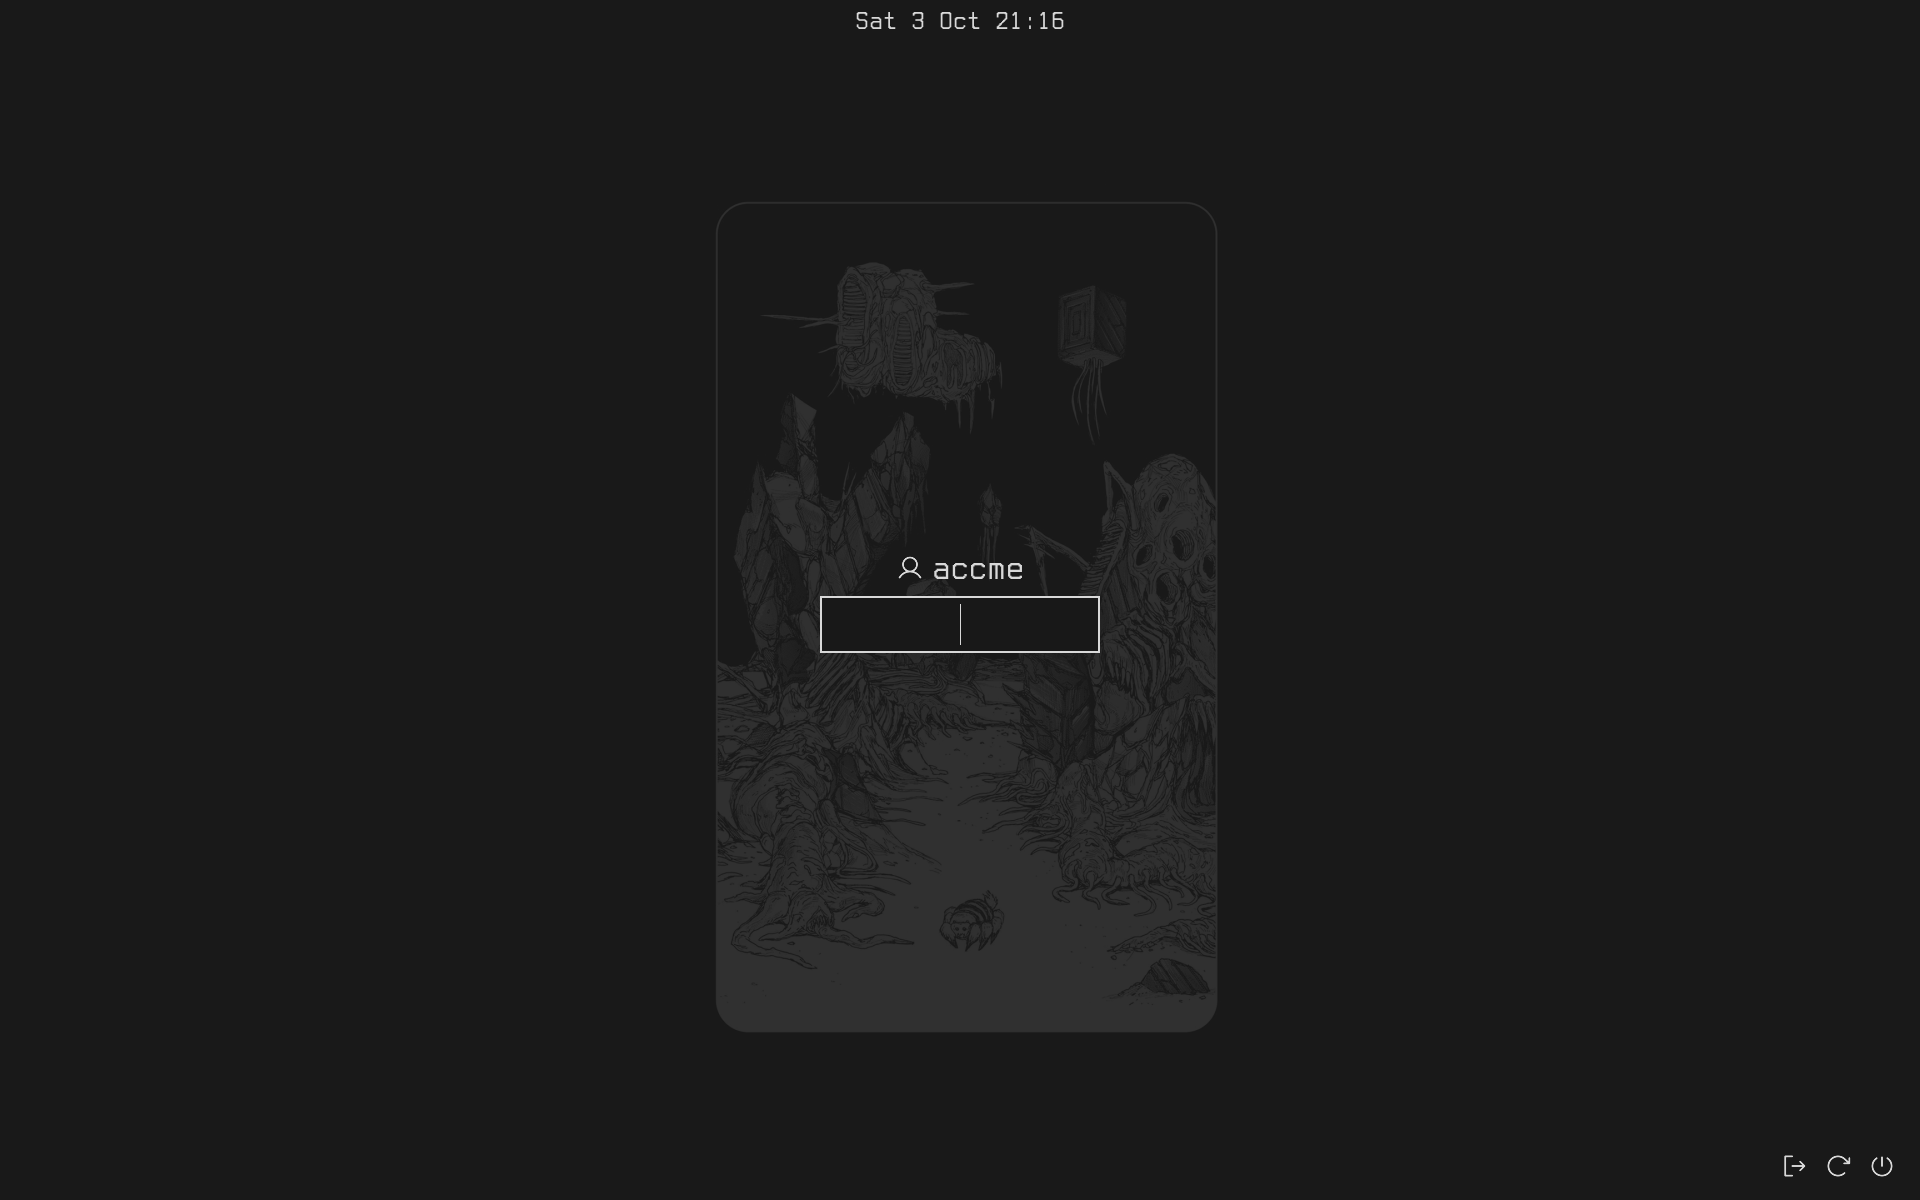
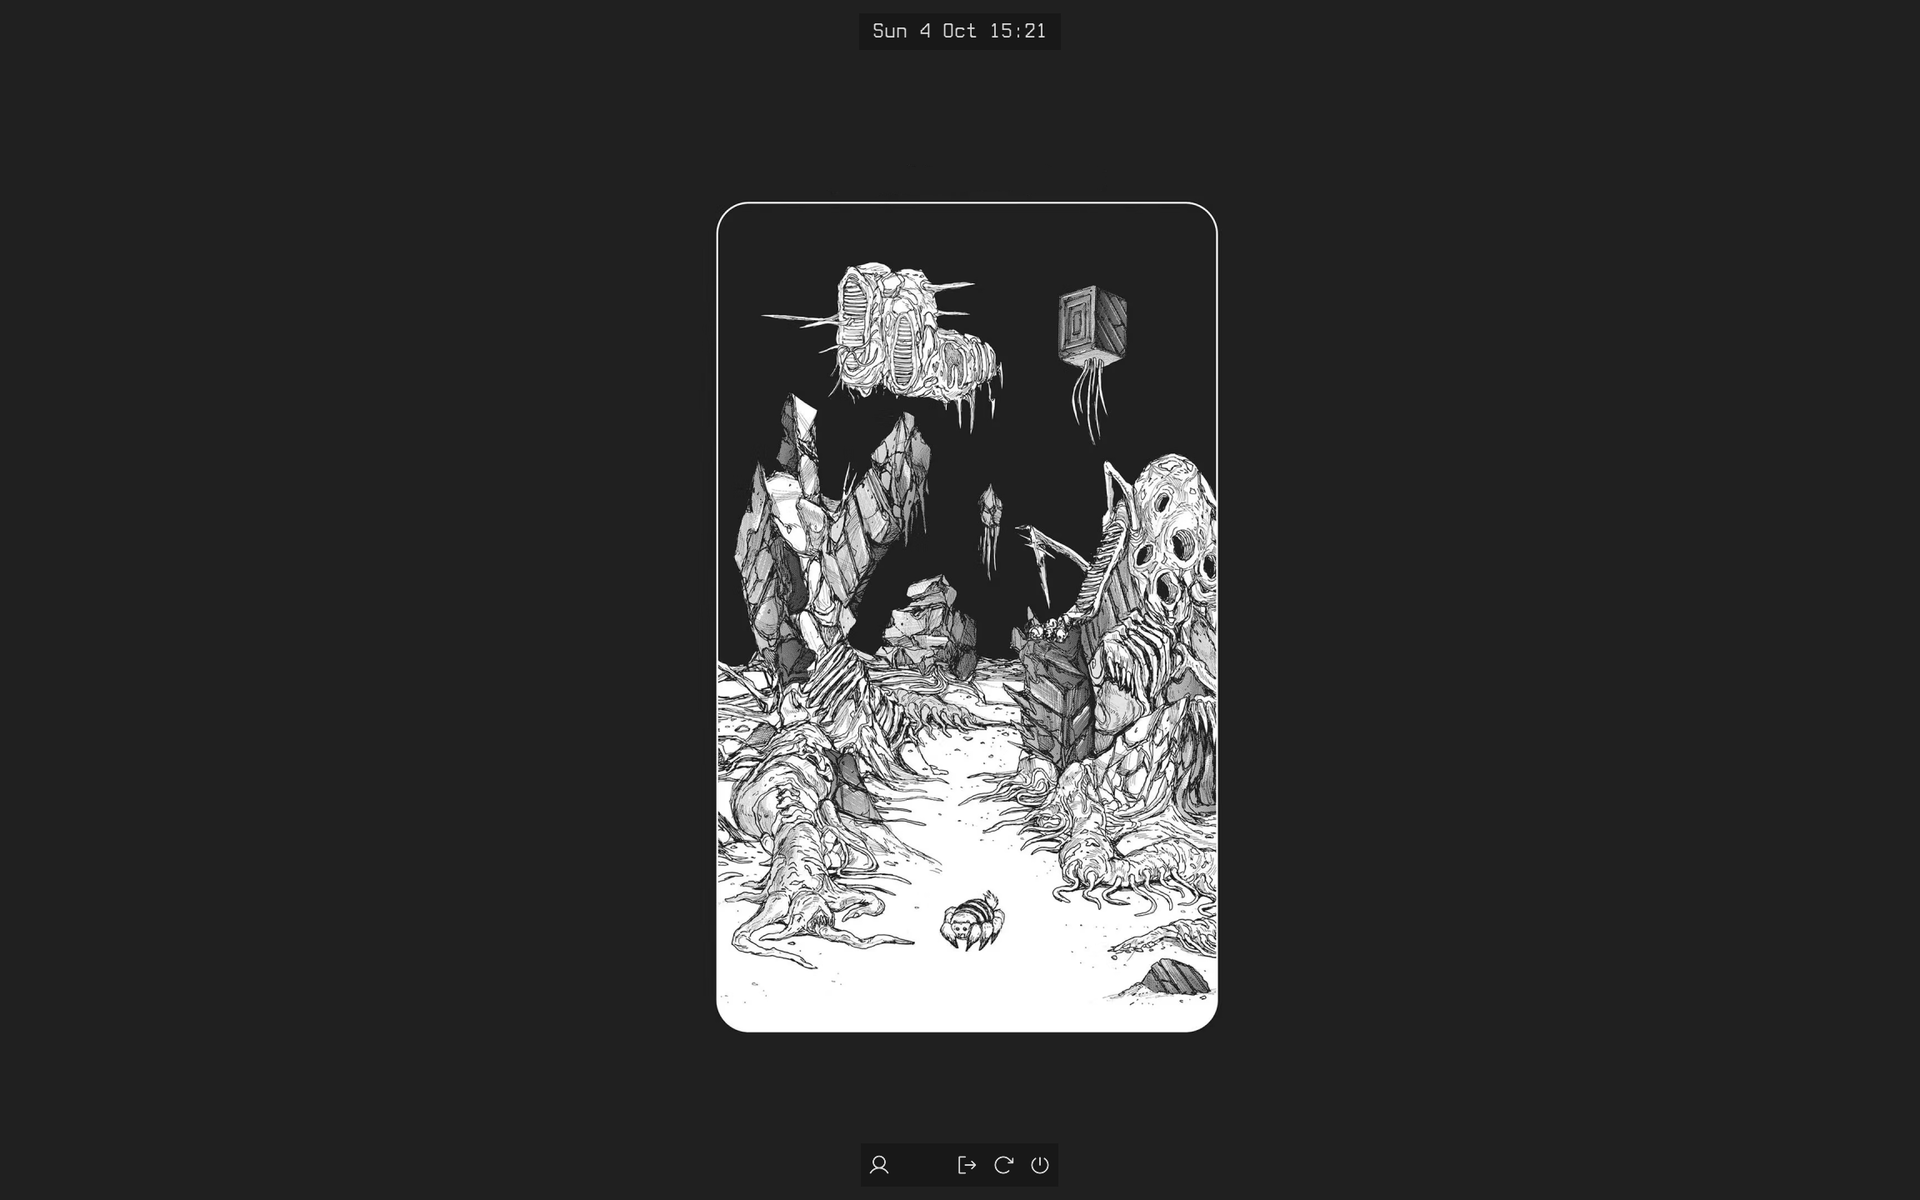
(feat): better lockscreen

Changed region(s): [[0.375, 0.2158, 0.6562, 0.8633], [0.4375, 0.0, 0.5625, 0.0308]]

diff --git a/Modules/Lock/Lock.qml b/Modules/Lock/Lock.qml
@@ -2,6 +2,7 @@ import Quickshell
 import Quickshell.Wayland
 import QtQuick
 import QtQuick.Layouts
+import QtQuick.Shapes
 
 import qs.Services
 import qs.Components
@@ -38,128 +39,190 @@ Scope {
       }
 
       Rectangle {
-        anchors.fill: parent
-
-        color: ThemeService.colors.background
-        opacity: 0.9
-      }
-
-      MesaText {
         anchors.top: parent.top
         anchors.horizontalCenter: parent.horizontalCenter
-        anchors.topMargin: ConfigService.spaceMd
+        anchors.topMargin: ConfigService.spaceLg
 
-        text: Qt.formatDateTime(clock.date, ConfigService.dateTimeFormat)
-        font.pointSize: ConfigService.font.size * 1.5
+        implicitWidth: date.implicitWidth + ConfigService.spaceLg * 2
+        implicitHeight: date.implicitHeight + ConfigService.spaceMd * 2
 
-        SystemClock {
-          id: clock
-          precision: SystemClock.Minutes
+        color: ThemeService.colors.background
+
+        MesaText {
+          id: date
+
+          anchors.centerIn: parent
+
+          text: Qt.formatDateTime(clock.date, ConfigService.dateTimeFormat)
+          font.pointSize: ConfigService.font.size * 1.5
+
+          SystemClock {
+            id: clock
+            precision: SystemClock.Minutes
+          }
         }
       }
 
+      Rectangle {
+        id: bar
 
-      RowLayout {
-        anchors.right: parent.right
+        readonly property real stroke: ConfigService.border * 3
+
         anchors.bottom: parent.bottom
-        anchors.margins: ConfigService.spaceLg
+        anchors.horizontalCenter: parent.horizontalCenter
+        anchors.bottomMargin: ConfigService.spaceLg
 
-        spacing: ConfigService.spaceLg
+        implicitWidth: row.implicitWidth + ConfigService.spaceMd
+        implicitHeight: row.implicitHeight + ConfigService.spaceMd * 2
 
-        RowLayout {
-          spacing: 0
+        color: ThemeService.colors.background
 
-          MesaButton {
-            Layout.fillWidth: true
+        focus: true
 
-            icon: "application-exit"
-            iconSize: ConfigService.iconSizeLarge
-            onClicked: PowerService.exitSession()
+        Keys.onPressed: event => {
+          if (LockService.authenticating) return;
+
+          if (event.key === Qt.Key_CapsLock) {
+            if (!event.isAutoRepeat) LockService.capsLock = !LockService.capsLock;
+          } else if (event.key === Qt.Key_Escape) {
+            if (LockService.password !== "") flash.trigger(ThemeService.colors.highlight, true);
+            LockService.input("");
+          } else if (event.key === Qt.Key_Tab || event.key === Qt.Key_Backtab) {
+          } else if (event.key === Qt.Key_Return || event.key === Qt.Key_Enter) {
+            LockService.submit();
+          } else if (event.key === Qt.Key_Backspace) {
+            if (LockService.password === "") return;
+
+            LockService.input(LockService.password.slice(0, -1));
+            flash.trigger(ThemeService.colors.attention, false);
+          } else {
+            const code = event.text.charCodeAt(0);
+            if (!(code >= 32 && code !== 127)) return;
+
+            if (event.text.toLowerCase() !== event.text.toUpperCase()) {
+              LockService.capsLock = (event.text === event.text.toUpperCase()) !== Boolean(event.modifiers & Qt.ShiftModifier);
+            }
+
+            LockService.input(LockService.password + event.text);
+            flash.trigger(ThemeService.colors.highlight, false);
           }
 
-          MesaButton {
-            Layout.fillWidth: true
-
-            icon: "system-reboot"
-            iconSize: ConfigService.iconSizeLarge
-            onClicked: PowerService.reboot()
-          }
-
-          MesaButton {
-            Layout.fillWidth: true
-
-            icon: "system-shutdown"
-            iconSize: ConfigService.iconSizeLarge
-            onClicked: PowerService.shutdown()
-          }
+          event.accepted = true;
         }
-      }
-
-      ColumnLayout {
-        anchors.centerIn: parent
-
-        spacing: ConfigService.spaceMd
 
         RowLayout {
-          Layout.alignment: Qt.AlignHCenter
+          id: row
+
+          anchors.fill: parent
+          anchors.leftMargin: ConfigService.spaceMd
 
           spacing: ConfigService.spaceMd
 
           MesaIcon {
             name: "im-user"
             size: ConfigService.iconSizeLarge
+            color: LockService.failed ? ThemeService.colors.critical : ThemeService.colors.foreground
           }
 
-          MesaText {
-            text: LockService.user
-            font.pointSize: ConfigService.font.size * 2
-          }
-        }
+          Item {
+            Layout.fillHeight: true
+            Layout.preferredWidth: Math.ceil(longest.width) + ConfigService.spaceMd * 2
 
-        MesaInput {
-          id: input
+            TextMetrics {
+              id: longest
 
-          Layout.preferredWidth: Math.round(ConfigService.font.size * 20)
+              font: status.font
+              text: "CAPS"
+            }
 
-          focus: true
-          horizontalAlignment: TextInput.AlignHCenter
-          echoMode: TextInput.Password
-          passwordCharacter: "*"
-          readOnly: LockService.authenticating
+            MesaText {
+              id: status
 
-          font.pointSize: ConfigService.font.size * 2
+              anchors.centerIn: parent
 
-          text: LockService.authenticating ? "" : LockService.password
+              visible: LockService.authenticating || LockService.capsLock
 
-          topPadding: ConfigService.spaceMd
-          bottomPadding: ConfigService.spaceMd
-
-          borderColor: {
-            if (LockService.failed) return ThemeService.colors.critical;
-            if (LockService.authenticating) return ThemeService.colors.attention;
-            return ThemeService.colors.highlight;
+              text: LockService.authenticating ? "..." : "CAPS"
+              color: ThemeService.colors.attention
+            }
           }
 
-          background: Rectangle {
-            color: ThemeService.colors.background
-            border.color: input.borderColor
-            border.width: ConfigService.border * 2
-          }
+          RowLayout {
+            spacing: 0
 
-          onTextEdited: LockService.input(text)
-          onAccepted: LockService.submit()
+            MesaButton {
+              icon: "application-exit"
+              iconSize: ConfigService.iconSizeLarge
+              onClicked: PowerService.exitSession()
+            }
 
-          Keys.onEscapePressed: LockService.input("")
+            MesaButton {
+              icon: "system-reboot"
+              iconSize: ConfigService.iconSizeLarge
+              onClicked: PowerService.reboot()
+            }
 
-          MesaText {
-            anchors.centerIn: parent
-
-            visible: LockService.authenticating
-
-            text: "Verifying..."
+            MesaButton {
+              icon: "system-shutdown"
+              iconSize: ConfigService.iconSizeLarge
+              onClicked: PowerService.shutdown()
+            }
           }
         }
-      }    
+
+        Shape {
+          id: flash
+
+          readonly property real perimeter: 2 * (width + height - bar.stroke * 2)
+          property real position: 0
+          property real segment: 0
+          property color color: ThemeService.colors.highlight
+
+          function trigger(color: color, full: bool): void {
+            flash.color = color;
+            flash.segment = full ? flash.perimeter : Math.max(flash.height, flash.perimeter / 8);
+            flash.position = full ? 0 : Math.random() * flash.perimeter;
+            fade.restart();
+          }
+
+          anchors.fill: parent
+
+          opacity: 0
+
+          NumberAnimation on opacity {
+            id: fade
+
+            running: false
+            from: 1
+            to: 0
+            duration: 400
+            easing.type: Easing.InQuad
+          }
+
+          ShapePath {
+            strokeColor: flash.color
+            strokeWidth: bar.stroke
+            fillColor: "transparent"
+            strokeStyle: ShapePath.DashLine
+            capStyle: ShapePath.SquareCap
+            joinStyle: ShapePath.MiterJoin
+            dashPattern: [flash.segment / bar.stroke, flash.perimeter * 2 / bar.stroke]
+            dashOffset: (flash.perimeter * 2 + flash.segment - flash.position) / bar.stroke
+
+            startX: bar.stroke / 2
+            startY: bar.stroke / 2
+
+            PathLine { x: flash.width - bar.stroke / 2; y: bar.stroke / 2 }
+            PathLine { x: flash.width - bar.stroke / 2; y: flash.height - bar.stroke / 2 }
+            PathLine { x: bar.stroke / 2; y: flash.height - bar.stroke / 2 }
+            PathLine { x: bar.stroke / 2; y: bar.stroke / 2 }
+            PathLine { x: flash.width - bar.stroke / 2; y: bar.stroke / 2 }
+            PathLine { x: flash.width - bar.stroke / 2; y: flash.height - bar.stroke / 2 }
+            PathLine { x: bar.stroke / 2; y: flash.height - bar.stroke / 2 }
+            PathLine { x: bar.stroke / 2; y: bar.stroke / 2 }
+          }
+        }
+      }
     }
   }
 }

diff --git a/Services/LockService.qml b/Services/LockService.qml
@@ -8,13 +8,13 @@ import QtQuick
 Singleton {
   id: root
 
-  readonly property string user: Quickshell.env("USER") ?? ""
   readonly property bool authenticating: pam.active
 
   property bool locked: false
   property bool failed: false
 
   property string password: ""
+  property bool capsLock: false
 
   function lock(): void {
     root.password = "";
